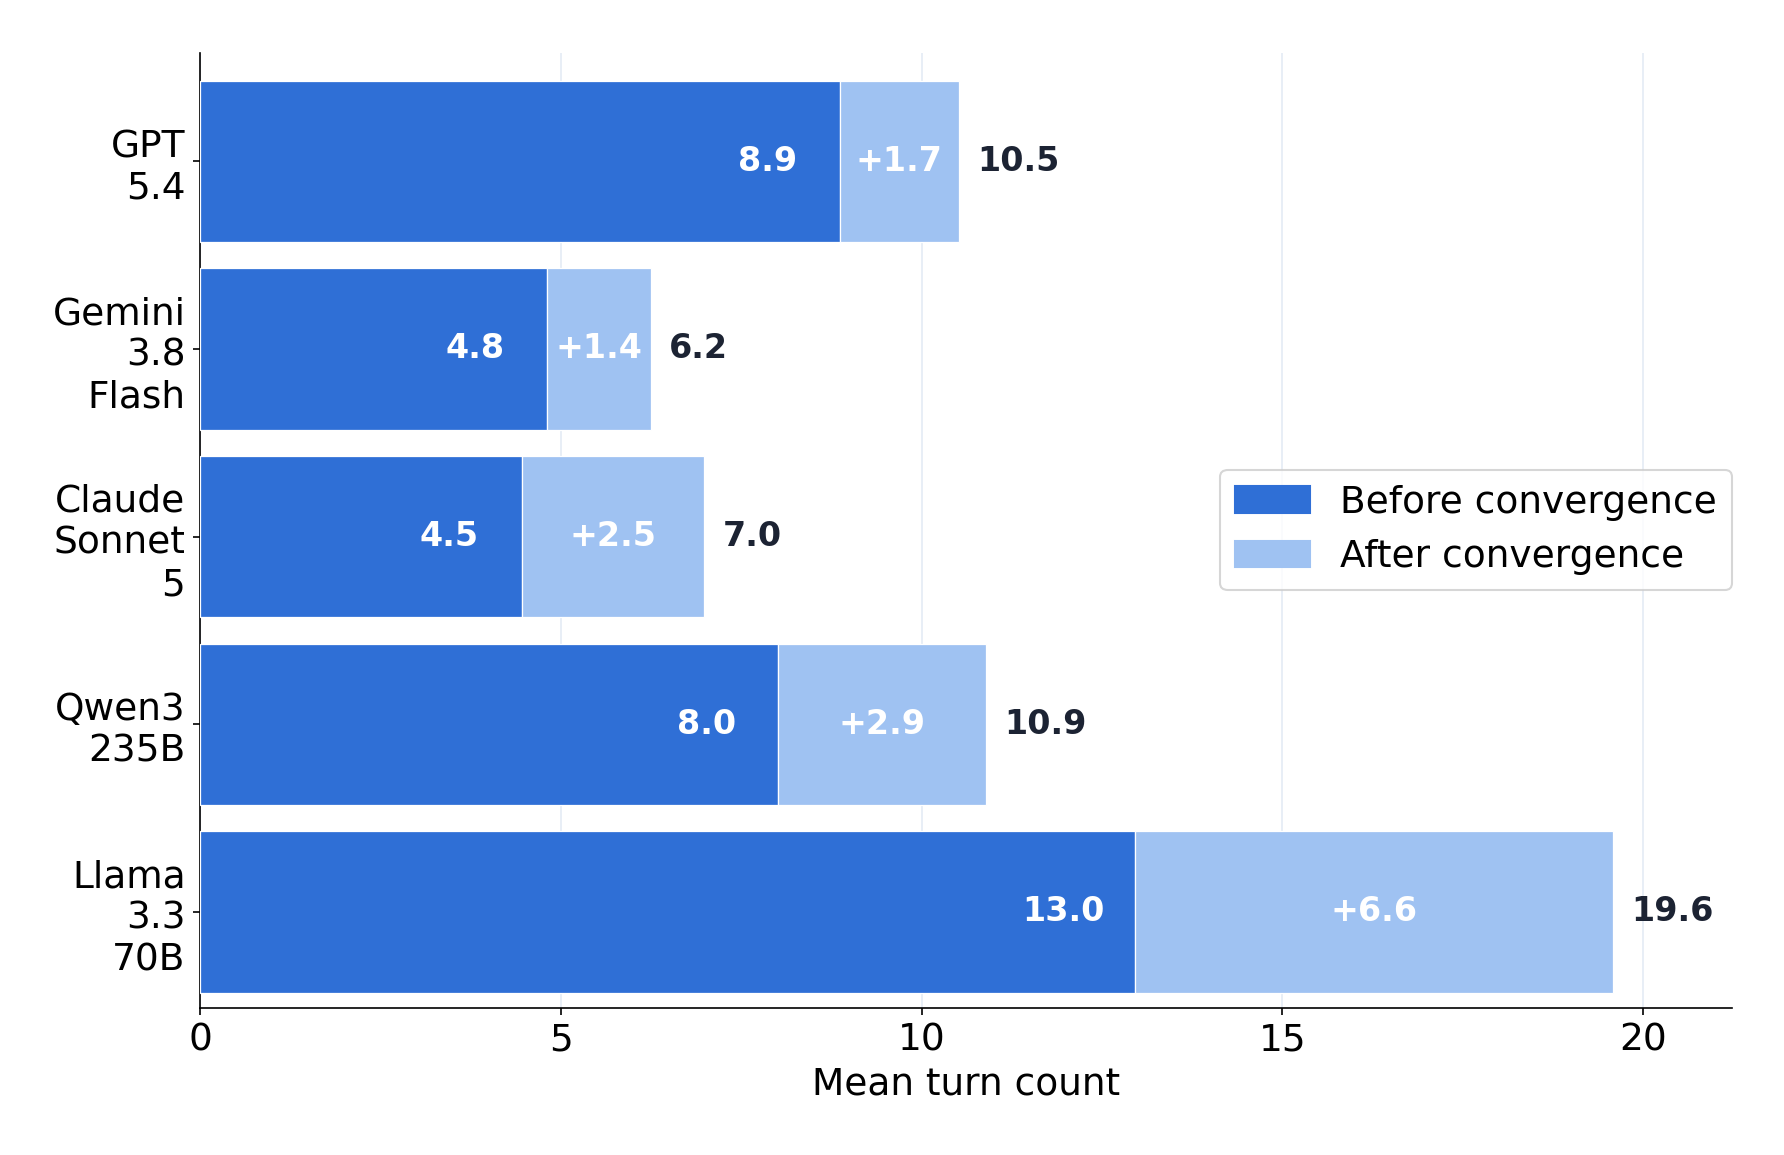
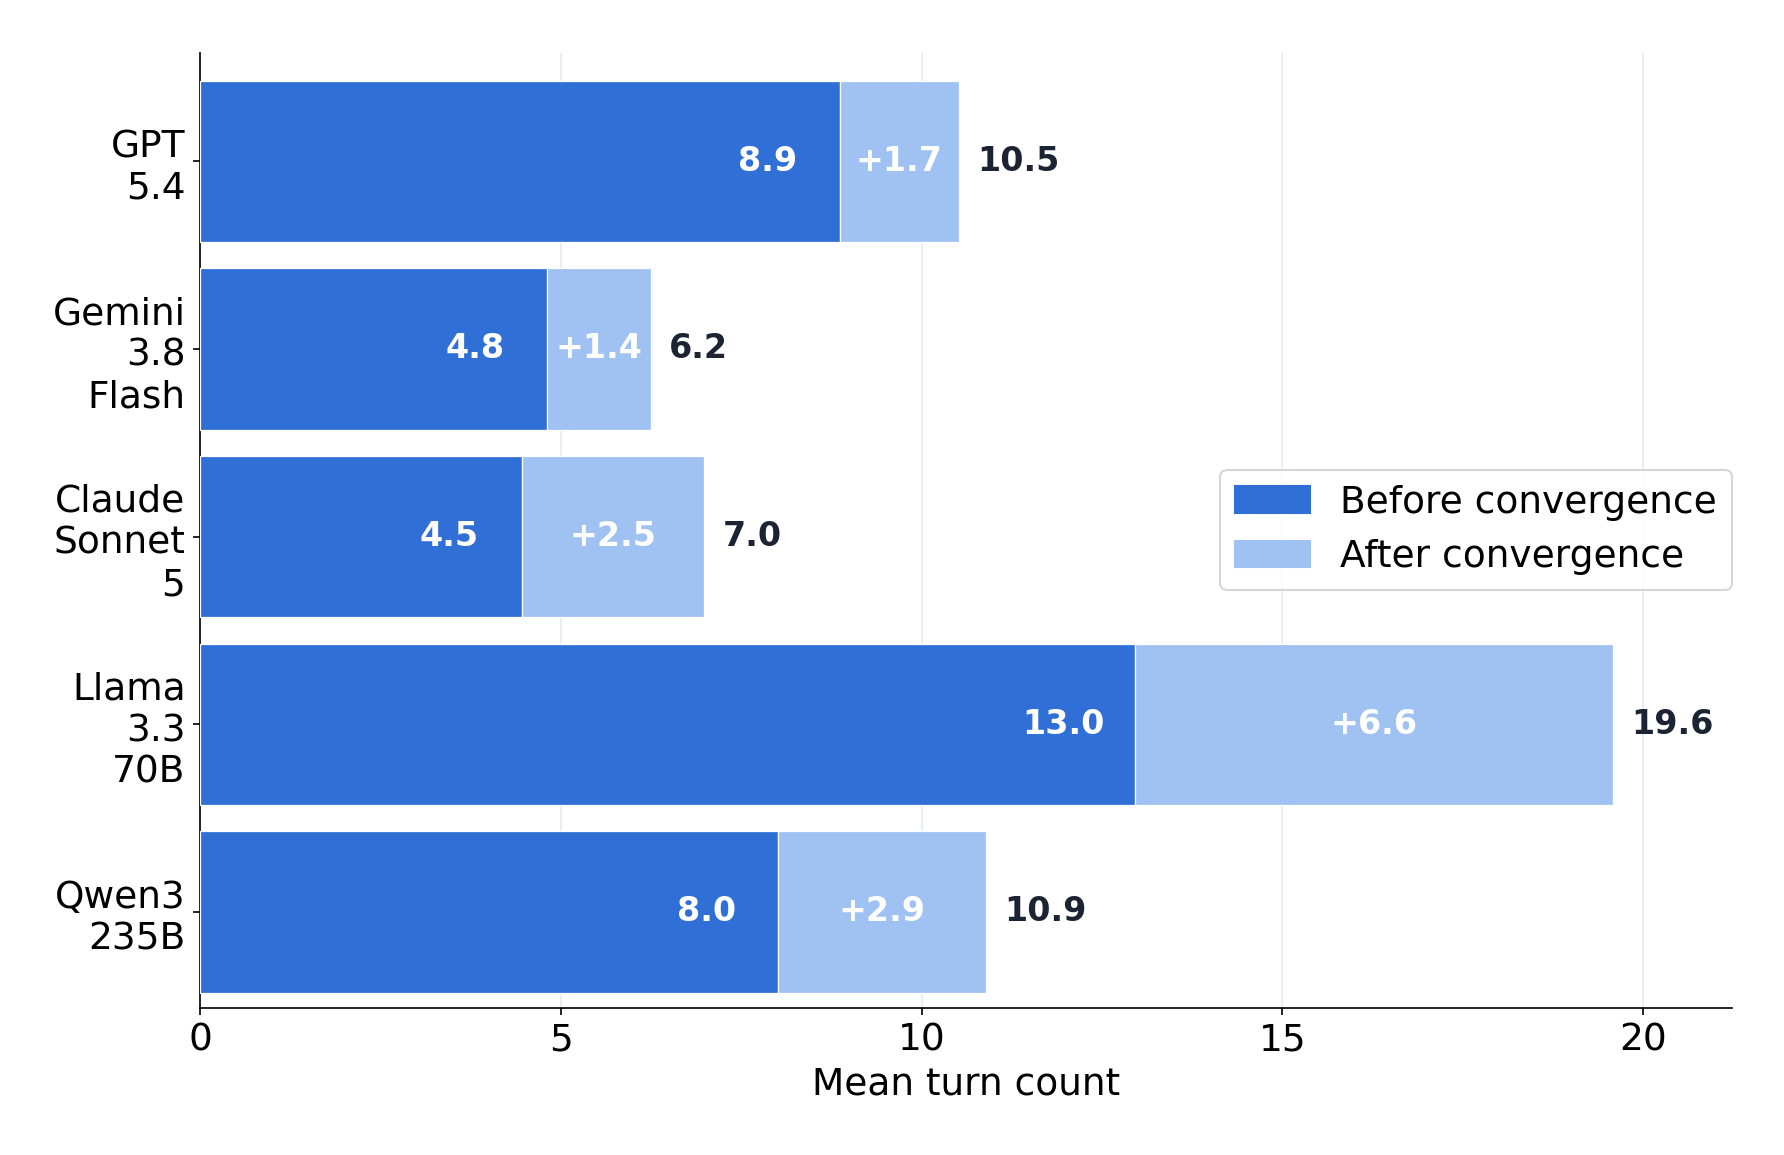
minor changes

diff --git a/reporting/plot_overcommitment_marimekko.py b/reporting/plot_overcommitment_marimekko.py
@@ -34,12 +34,25 @@ if str(_REPO_ROOT) not in _sys.path:
 os.environ.setdefault("MS_RUN", "run_batch_20260912")
 
 from utils.paths import ANALYSIS_ROOT, RUN_ROOT
-from reporting.plot_overcommitment_by_judge import COLOR_CONFIDENT, COLOR_OVERCOMMIT, _order_rank
+from reporting.plot_overcommitment_by_judge import COLOR_CONFIDENT, COLOR_OVERCOMMIT, MODEL_ORDER
 from reporting.plot_pinned_at_1_turn_counts import turn_counts_by_group
 from reporting.plot_v4_radar_by_judge import DOCTOR_NAME_CANONICAL
 
 SLOT_WIDTH = 0.86   # total height per doctor's bar pair (< 1.0 leaves a gap)
 SLOT_GAP = 1.0       # y-distance between slot centers
+
+# Local model order for this chart only (GPT, Gemini, Claude, Llama, Qwen —
+# swaps qwen3-235b <-> llama-3.3-70b-instruct relative to
+# plot_overcommitment_by_judge.MODEL_ORDER, which other v4 figures still use
+# as-is — not shared, to avoid reordering every other consumer of it).
+_LOCAL_MODEL_ORDER = list(MODEL_ORDER)
+_i, _j = _LOCAL_MODEL_ORDER.index("qwen3-235b"), _LOCAL_MODEL_ORDER.index("llama-3.3-70b-instruct")
+_LOCAL_MODEL_ORDER[_i], _LOCAL_MODEL_ORDER[_j] = _LOCAL_MODEL_ORDER[_j], _LOCAL_MODEL_ORDER[_i]
+_LOCAL_ORDER_RANK = {name: i for i, name in enumerate(_LOCAL_MODEL_ORDER)}
+
+
+def _order_rank(doctor: str) -> int:
+    return _LOCAL_ORDER_RANK.get(doctor, len(_LOCAL_MODEL_ORDER))
 
 
 def main() -> None:
